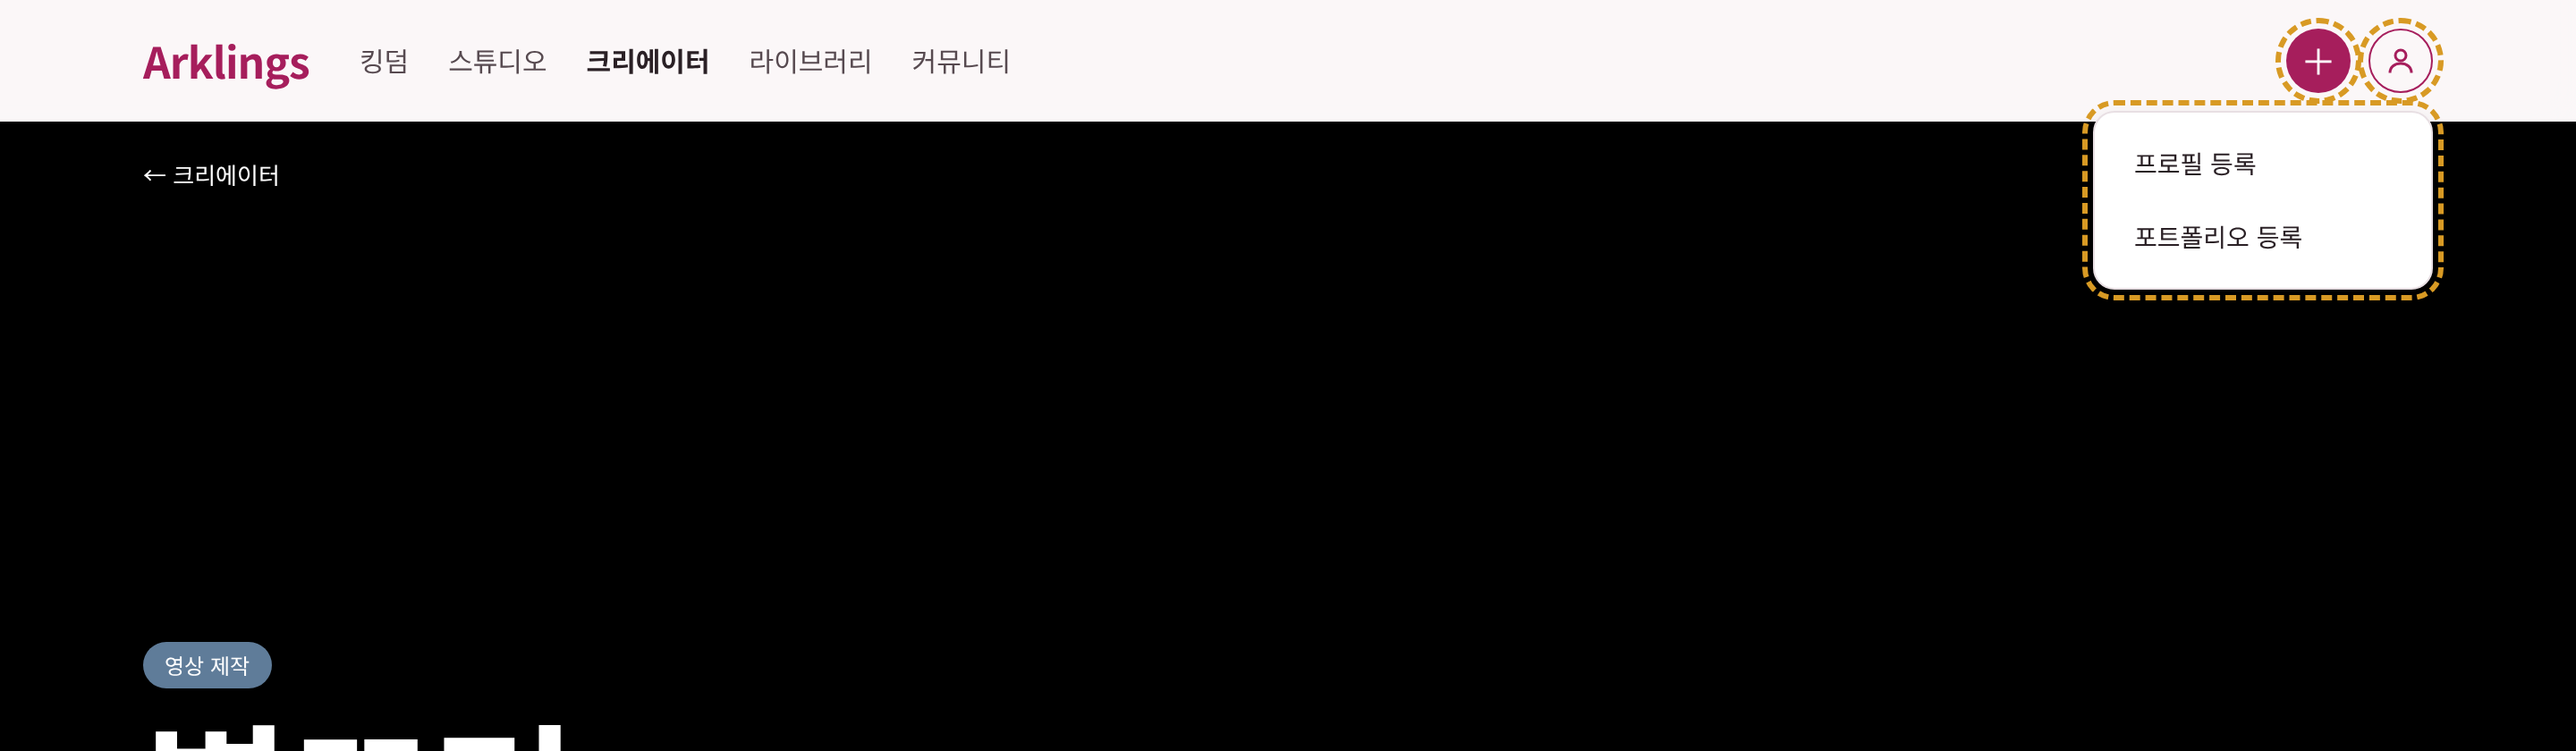
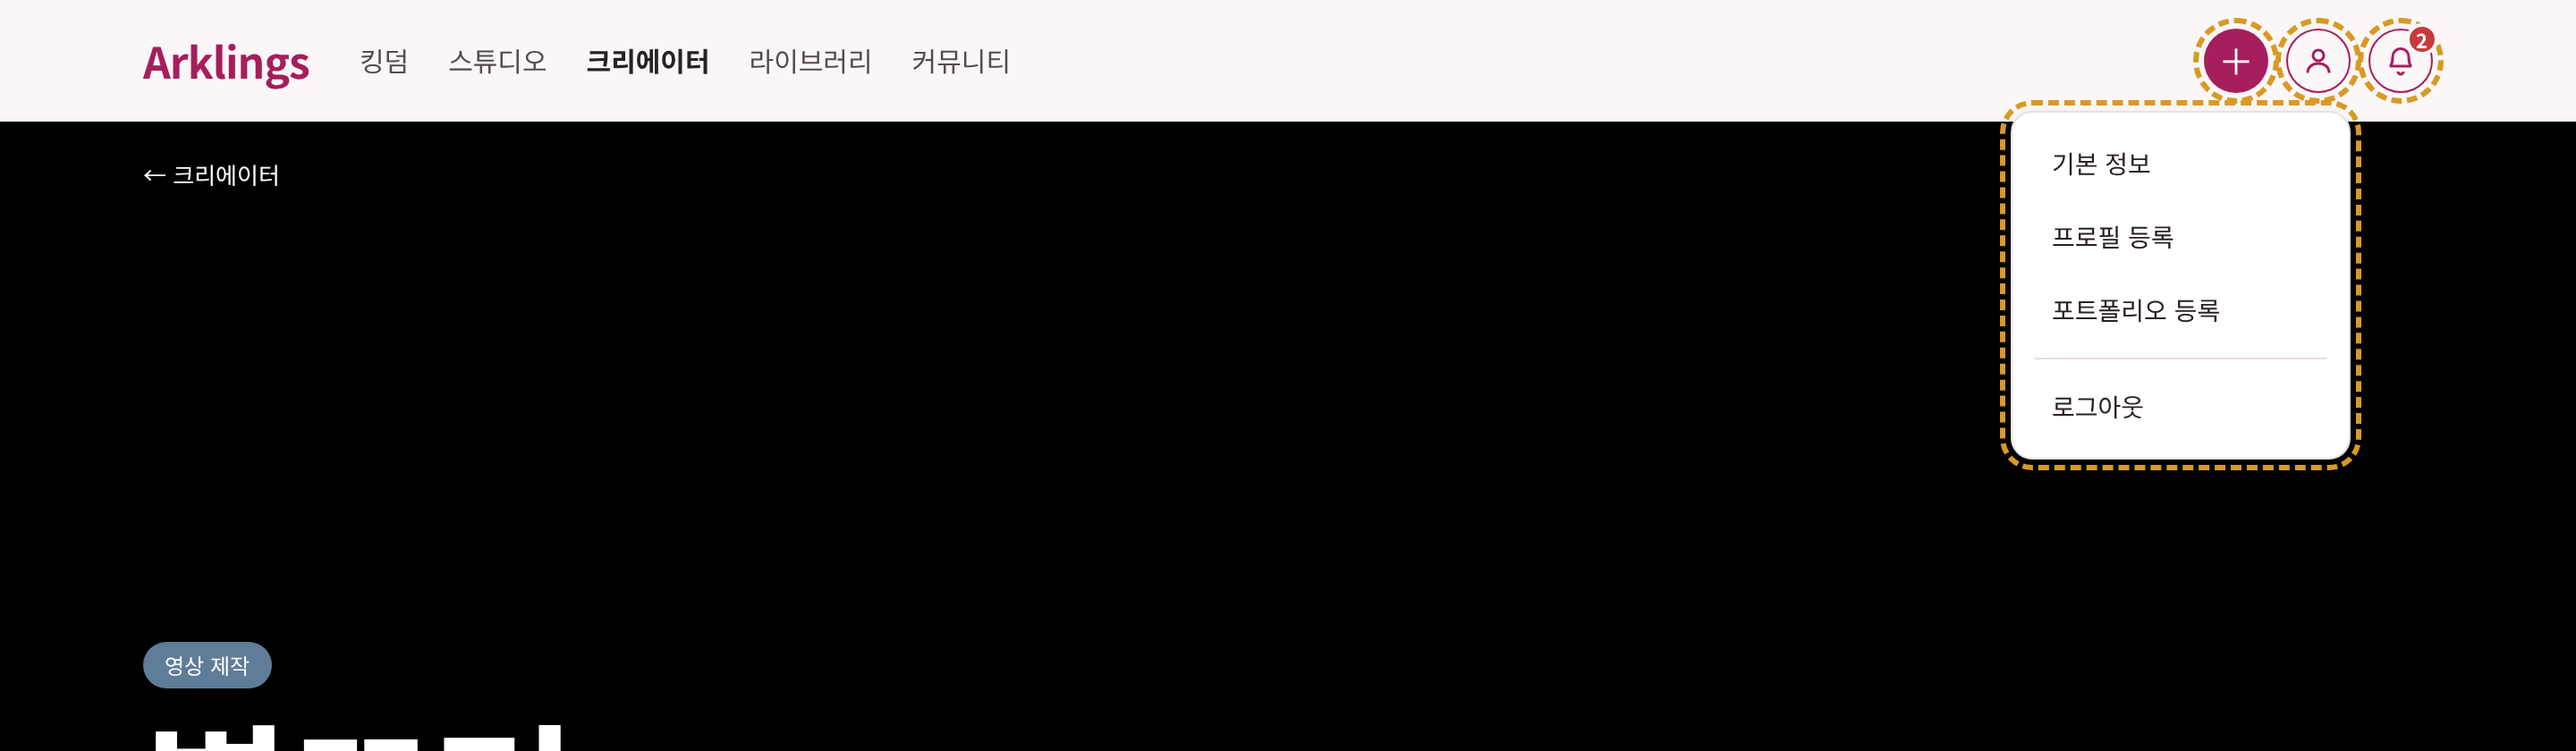
docs: 상단 메뉴 시안(＋·마이페이지·종, 로그아웃 상태, 모바일)을 고쳐 다시 그림
Claude-Session: https://claude.ai/code/session_01SCW1hv5tUxq1NxtoDWFewo

Changed region(s): [[0.7812, 0.031, 0.9688, 0.65], [0.9375, 0.031, 0.9688, 0.0619]]

diff --git a/docs/creator-pages-plan.md b/docs/creator-pages-plan.md
@@ -302,13 +302,16 @@ D27-1: 역할 표시는 작품당 **하나**(지금)로 둘지 **여러 개**를
 | `docs/mockups/01-portfolio-register.png` | 포트폴리오 등록 화면(펼친 모양) | 확정 |
 | `docs/mockups/02-portfolio-manage-folded.png` | 등록 구역을 접은 모양. 맨 윗줄 「＋ 새 포트폴리오 등록」이 접힌 등록 화면이고 별도 접기 버튼은 없다. 줄마다 손잡이·제목·대표(티저 영상/컨셉 이미지/로그라인)·역할·장르·수정일·공개 스위치·수정·삭제 | 확정 |
 | `docs/mockups/03-creator-detail-owner.png` | 크리에이터 상세(소유자 화면). 작품마다 한 섹션, 왼쪽 대표 이미지·영상, 오른쪽 제목·공개 스위치·손잡이·로그라인·종류·역할·장르 | 확정 |
-| `docs/mockups/04-menu-plus.png` | ＋ 아이콘 드롭다운(킹덤·스튜디오·크리에이터·라이브러리·커뮤니티) | 일부 확정(아래 참고) |
-| `docs/mockups/05-menu-person.png` | 사람 아이콘 드롭다운(프로필 등록·포트폴리오 등록) | 미완: 로그인·가입, 기본 정보 칸이 빠져 있다. 고친 뒤 확정 |
+| `docs/mockups/04-menu-plus.png` | 상단 메뉴(로그인 상태) 오른쪽 아이콘 셋 ＋·마이페이지·종(새 신청 개수 표시)과 ＋ 드롭다운(킹덤·스튜디오·크리에이터·라이브러리·커뮤니티) | 새로 그림, 확인 필요 |
+| `docs/mockups/05-menu-person.png` | 마이페이지(사람) 아이콘 드롭다운, 로그인 상태: 기본 정보·프로필 등록·포트폴리오 등록·로그아웃(로그아웃은 계획 세션이 덧붙임) | 새로 그림, 확인 필요 |
+| `docs/mockups/09-menu-person-loggedout.png` | 마이페이지(사람) 아이콘 드롭다운, 로그아웃 상태: 로그인·회원가입. 이때 아이콘은 ＋와 사람 둘뿐(종 없음). ＋를 누르면 드롭다운 대신 로그인 화면으로 간다 | 새로 그림, 확인 필요 |
+| `docs/mockups/10-menu-bell.png` | 종 아이콘 드롭다운: 새 협업 신청 알림 목록과 「받은 협업 신청 모두 보기」(`/collab`). 알림 한 줄을 누르면 그 신청 상세로 간다 | 새로 그림, 확인 필요 |
+| `docs/mockups/11-menu-mobile-bell.png` | 모바일(375) 상단 메뉴: 햄버거는 로고 왼쪽, 오른쪽 아이콘 셋, 종 드롭다운 열린 모양 | 새로 그림, 확인 필요 |
 | `docs/mockups/06-delete-dialog.png` | 포트폴리오 삭제 확인 창(「삭제하면 되돌릴 수 없습니다.」, 취소/삭제) | 문구·색은 계획 세션이 정함. 확인 필요 |
 | `docs/mockups/07-portfolio-manage-mobile.png` | 접힌 목록 모바일(375) | 확인 필요 |
 | `docs/mockups/08-creator-detail-mobile.png` | 크리에이터 상세 모바일(375) | 확인 필요 |
 
-시안과 이 문서가 다르면 먼저 보고한다. 상단 메뉴 오른쪽은 0-6대로 ＋·마이페이지·종 아이콘 셋인데 04·05 시안에는 종 아이콘이 없고 햄버거 위치도 0-6(로고 왼쪽)과 다르다. 상단 메뉴는 이 두 그림을 그대로 쓰지 말고 0-6 문장을 따른다.
+시안과 이 문서가 다르면 먼저 보고한다. 「기획안 만들기」 버튼은 랜딩에서만 보이고 스크롤해도 따라다닌다(0-6). 04·05·09·10·11에는 넣지 않았다.
 
 **아직 정하지 않은 것**
 - 마이페이지에 무엇을 남길지(기본 정보·크리에이터 등록·내 포트폴리오 목록 등), 구역 이동 줄과 D25-1·3·5를 없앨지.
